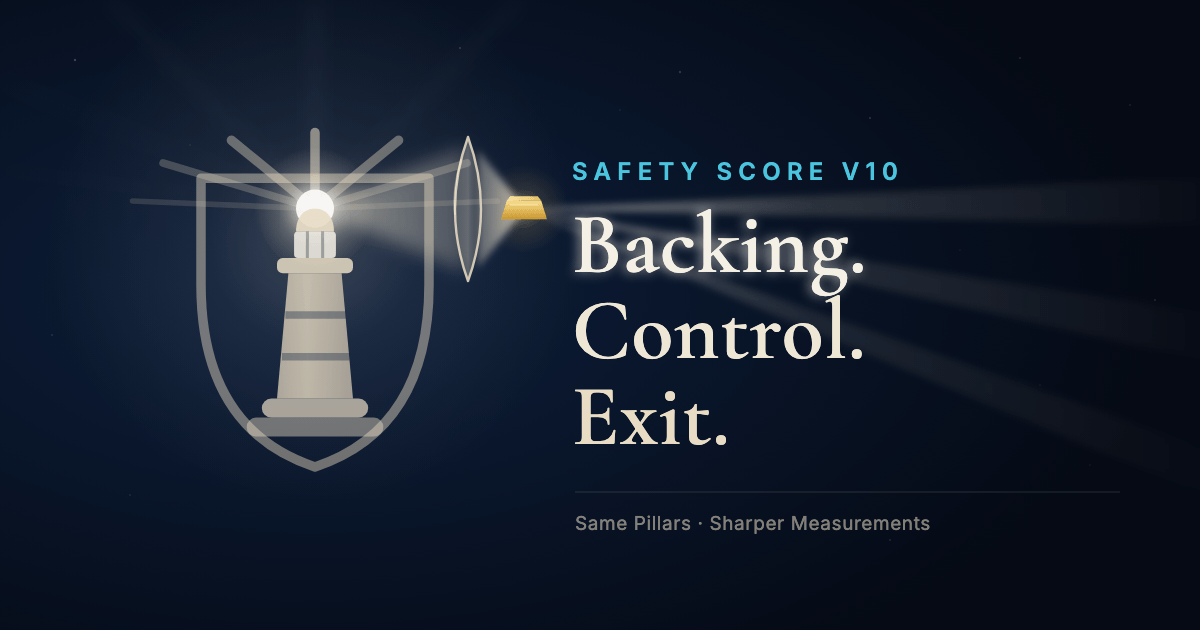
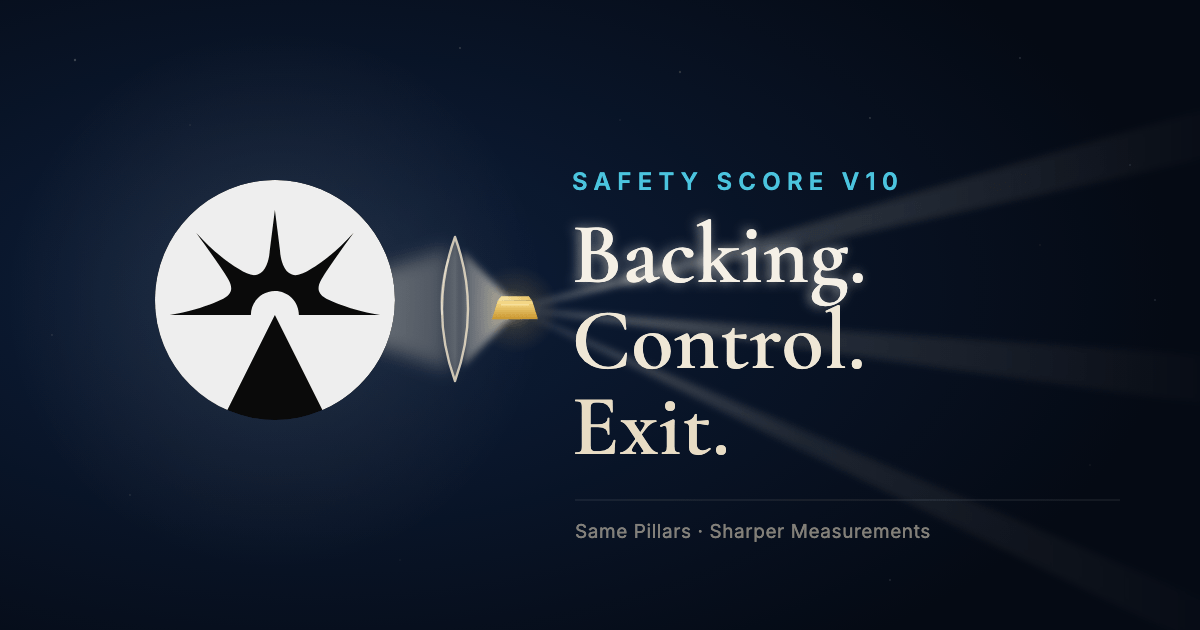
blog: use the current Pharos mark on the V10 cover
The first cover reused the retired lighthouse-in-shield art from the V9 source. Swap in the circular star/beacon mark (on-dark variant, paths copied verbatim) with the beam leaving the beacon.

diff --git a/src/data/blog/index.ts b/src/data/blog/index.ts
@@ -35,7 +35,7 @@ export const BLOG_POSTS: readonly BlogPost[] = [
     datePublished: "2026-10-02",
     coverImage: "/blog/safety-score-v10-cover.png",
     coverAlt:
-      "The Pharos lighthouse beam passing through a lens onto a small gold bar, then splitting into three sharp beams toward the words “Backing. Control. Exit.” beneath the label “Safety Score V10”.",
+      "The circular Pharos mark on a dark navy background, its beacon light passing through a lens onto a small gold bar and splitting into three sharp beams toward “Backing. Control. Exit.” beneath the label “Safety Score V10”.",
   },
   {
     slug: "api-access-free-grades-supporter-keys",
